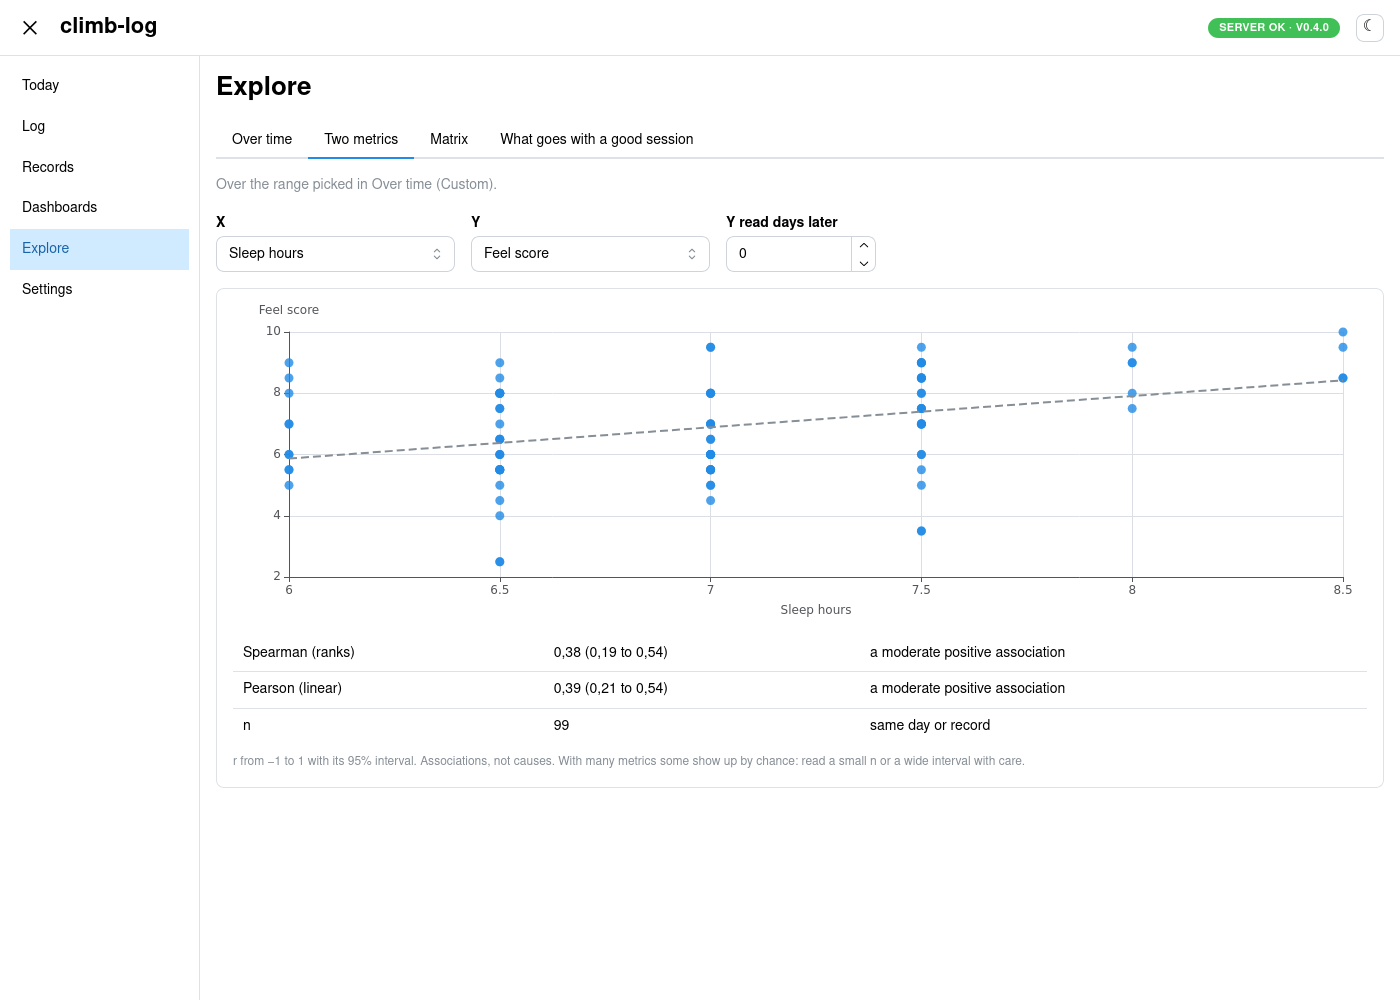
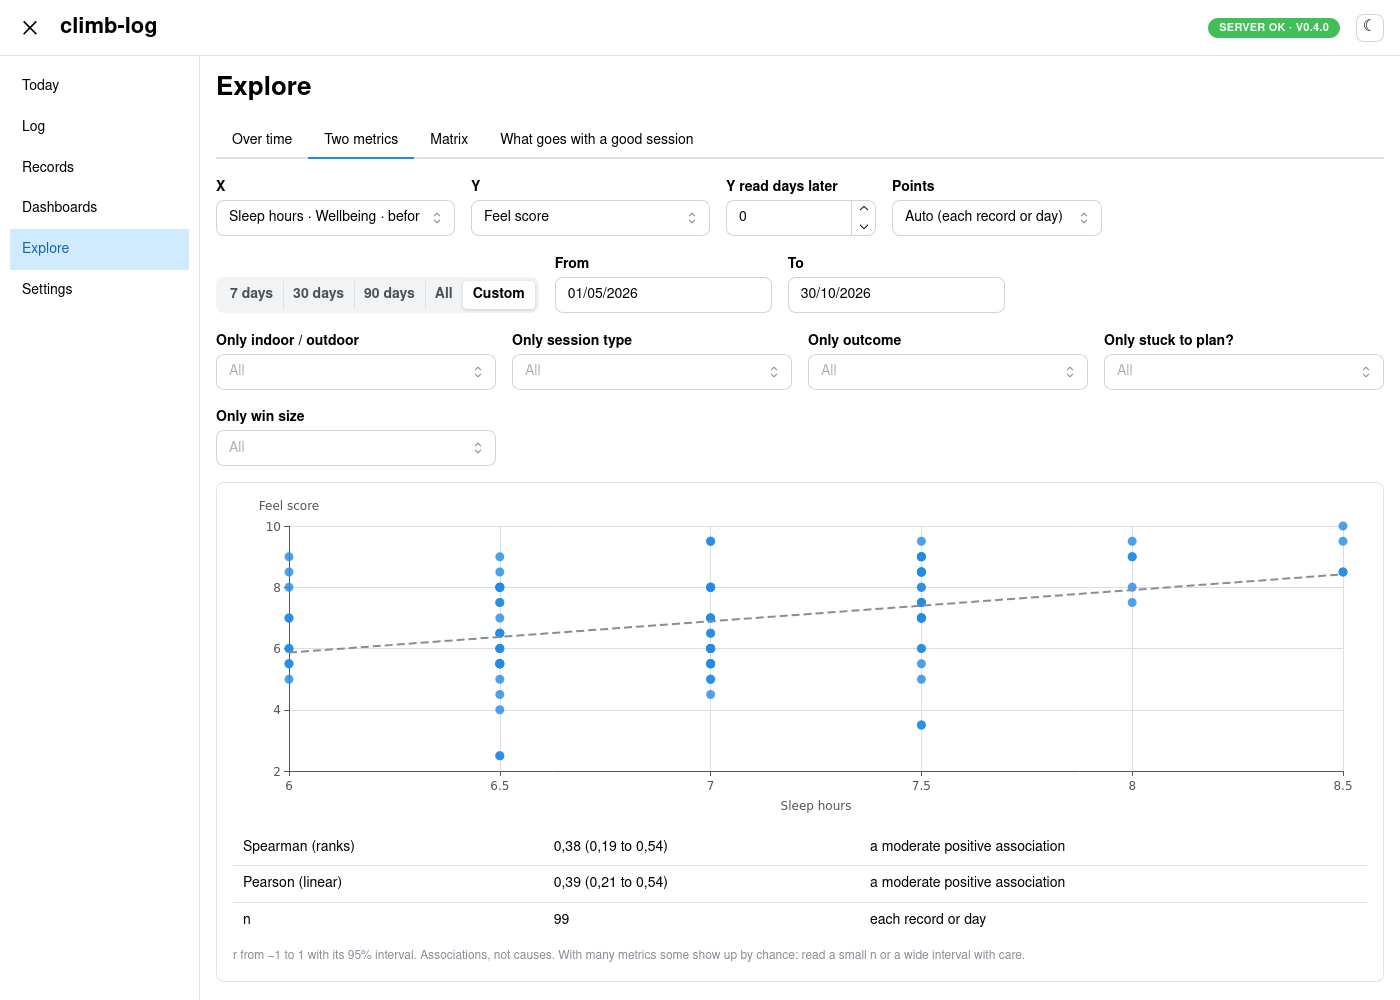
docs: retake the README screenshots after the M4 reviews
The demo journal now leaves a field blank before its since: date, as
the app's form does (it filled elbows and neck/traps from day one, which
the review of #109 caught). The screenshots are retaken on a fresh
26-week demo journal with everything changed since the review: training
load with days trained, and the pair tab with its own date range.

diff --git a/scripts/demo_journal.py b/scripts/demo_journal.py
@@ -19,6 +19,7 @@ from pathlib import Path
 from typing import Any
 
 from climblog.modules import load_module
+from climblog.modules.schema import Module
 from climblog.storage import RecordWriter, XlsxBackend, sync_module
 
 JOURNAL = Path(__file__).parent.parent / "modules" / "journal.yaml"
@@ -127,8 +128,20 @@ def write(path: Path, end: dt.date, seed: int, weeks: int = 26) -> int:
                 records.append(("session", session(rng, day, 2, form - 0.5)))
         elif roll < 0.7:
             records.append(("rest_day", rest_day(rng, day, form)))
-    RecordWriter(module, repo).add_many(records)
+    RecordWriter(module, repo).add_many([(e, tracked(module, e, r)) for e, r in records])
     return len(records)
+
+
+def tracked(module: Module, entity: str, values: dict[str, Any]) -> dict[str, Any]:
+    """The values without the fields not tracked yet on the record's day (`since:`, 03 §2.2):
+    the app's form doesn't ask for them, so a real journal has them blank."""
+    day = dt.date.fromisoformat(values["date"])
+    fields = module.entities[entity].fields
+    return {
+        name: value
+        for name, value in values.items()
+        if (since := getattr(fields.get(name), "since", None)) is None or day >= since
+    }
 
 
 def main() -> None:

diff --git a/scripts/screenshots.py b/scripts/screenshots.py
@@ -38,7 +38,7 @@ PAGES = {  # file → (path, height)
     "dashboard.png": (f"/dashboards/journal?date={DAY}", 2100),
     "load.png": (f"/dashboards/journal?date={DAY}&view=load", 1250),
     "explore.png": (
-        f"/explore?range=custom&start={START}&end={DAY}&tab=pair&x={SLEEP}&y={FEEL}",
+        f"/explore?tab=pair&x={SLEEP}&y={FEEL}&pair-range=custom&pair-start={START}&pair-end={DAY}",
         1000,
     ),
 }
